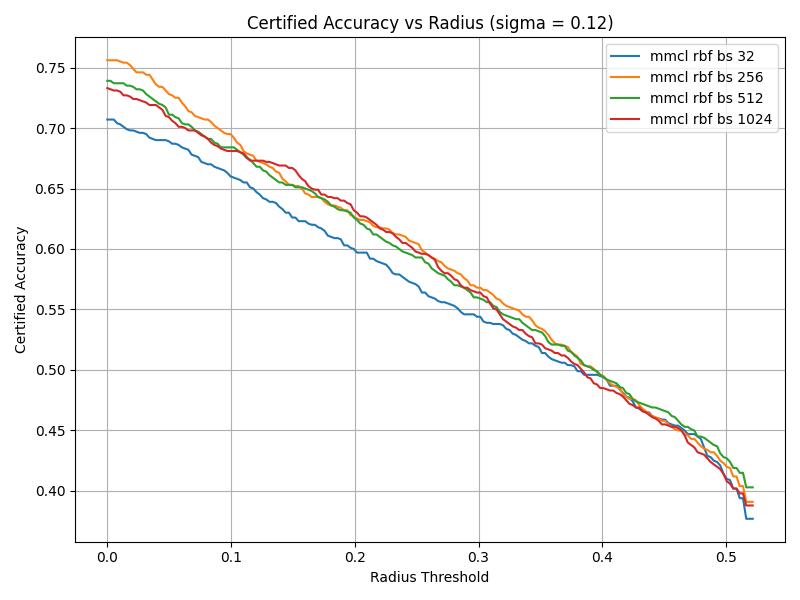
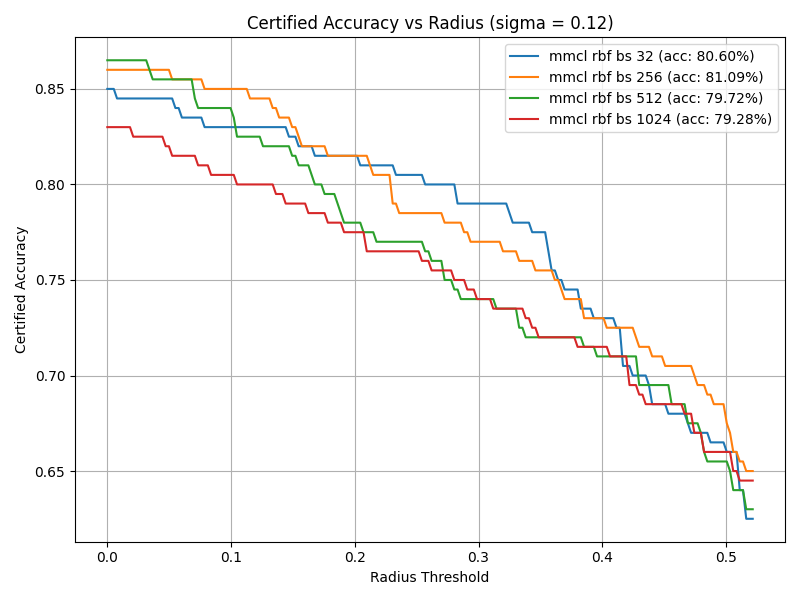
Small updates

diff --git a/randomized_smoothing/compare_randomized_smoothing_supervised.py b/randomized_smoothing/compare_randomized_smoothing_supervised.py
@@ -1,39 +1,31 @@
 import argparse
-import copy
-import gc
 import json
 import os
 import random
-import sys
-import time
 from collections import defaultdict
 
 import matplotlib.pyplot as plt
 import numpy as np
-import pandas as pd
 import torch
 import torch.nn as nn
 import torch.nn.functional as F
+import torchvision
+import torchvision.transforms as transforms
+from torch.utils.data import DataLoader
 from tqdm import tqdm
 
-import rocl.data_loader as data_loader
 from randomized_smoothing.core import Smooth
 
-parser = argparse.ArgumentParser(description="unsupervised binary search")
+parser = argparse.ArgumentParser(description="Randomized Smoothing for Supervised Models")
 parser.add_argument("--batch_size", type=int, default=256, help="batch size")
-parser.add_argument("--train_type", default="contrastive", type=str, help="contrastive/linear eval/test/supervised")
-parser.add_argument("--dataset", default="cifar-10", type=str, help="cifar-10/mnist")
-parser.add_argument("--name", default="", type=str, help="name of run")
 parser.add_argument("--seed", default=1, type=int, help="random seed")
-parser.add_argument("--color_jitter_strength", default=0.5, type=float, help="0.5 for CIFAR, 1.0 for ImageNet")
-parser.add_argument("--picks_per_class", type=int, default=5, help="number of negative items chosen per class")
 parser.add_argument("--N0", type=int, default=100)
 parser.add_argument("--N", type=int, default=1000000, help="number of samples to use")
 parser.add_argument("--alpha", type=float, default=0.001, help="failure probability")
-parser.add_argument("--positives_per_class", type=int, default=5, help="number of negative items chosen per class")
 parser.add_argument("--batch", type=int, default=1000, help="batch size")
-parser.add_argument("--finetune", action="store_true", help="Finetune the model")
 parser.add_argument("--relu_layer", action="store_true", help="Use classifier with additional relu layer")
+parser.add_argument("--num_images", type=int, default=1000, help="number of images to use")
+
 args = parser.parse_args()
 
 # add random seed
@@ -41,7 +33,6 @@ torch.manual_seed(args.seed)
 torch.cuda.manual_seed_all(args.seed)
 random.seed(args.seed)
 np.random.seed(args.seed)
-_, _, _, _, testloader, testdst = data_loader.get_train_val_test_dataset(args=args)
 device = torch.device("cuda" if torch.cuda.is_available() else "cpu")
 
 models = [
@@ -56,8 +47,32 @@ models = [
     {
         "model_ckpt": "models/supervised/supervised_kl_bs_256_lr_0.001.pkl",
         "model": "supervised kl divergence"
+    },
+    {
+        "model_ckpt": "models/supervised/supervised_hinge_bs_256_lr_0.001.pkl",
+        "model": "supervised hinge"
     }
 ]
+transform_test = transforms.Compose([
+    transforms.ToTensor(),
+    transforms.Normalize((0.4914, 0.4822, 0.4465), (0.2023, 0.1994, 0.2010)),
+])
+val_set = torchvision.datasets.CIFAR10(
+    root="./data", train=False, download=True, transform=transform_test
+)
+testloader = DataLoader(
+    torch.utils.data.Subset(val_set, range(5000, 10000)),
+    batch_size=args.batch_size,
+    shuffle=False,
+    num_workers=2
+)
+all_test_images = []
+# randomly sample images from the test set
+for images, labels in testloader:
+    for i in range(images.size(0)):
+        all_test_images.append((images[i], labels[i].item()))
+picks = random.sample(all_test_images, args.num_images)
+
 
 class CombinedModel(nn.Module):
 
@@ -93,52 +108,48 @@ def update_results(
         "rs_label": rs_label
     })
 
+def get_test_set_accuracy(model):
+    total_correct, total_samples = 0, 0
+    for images, targets in testloader:
+        images, targets = images.to(device), targets.to(device)
+        logits = model(images)
+        predictions = torch.argmax(logits, dim=1)
+        correct = (predictions == targets).sum().item()
+        total_correct += correct
+        total_samples += targets.size(0)
+    return total_correct / total_samples
+
+
 for model in models:
-    encoder = torch.load(model["model_ckpt"], map_location=device, weights_only=False)
-    prefix = ""
-    if args.relu_layer:
-        prefix += "relu_"
-    eval_ckpt = f"models/linear_evaluate/{prefix}linear_{model['model_ckpt'].split('/')[-1]}"
-    print(f"Loaded:\nencoder:{model['model_ckpt']}\nclassifier:{eval_ckpt}")
-    classifier = torch.load(eval_ckpt, map_location=device, weights_only=False)
-    model["base_classifier"] = CombinedModel(encoder=encoder, eval_=classifier)
+    model["base_classifier"] = torch.load(model["model_ckpt"], map_location=device, weights_only=False)
+    model["test_accuracy"] = get_test_set_accuracy(model["base_classifier"])
+    print(f"Test accuracy for model {model['model']}: {model['test_accuracy']}")
 
-# creating data
-class_names = testdst.classes
-per_class_sampler = defaultdict(list)
-for idx, sample in enumerate(testdst):
-    image, _, _, label = sample
-    class_name = class_names[label]
-    per_class_sampler[class_name].append((image, label))
-picks = defaultdict(list)
-for class_name, values in per_class_sampler.items():
-    picks[class_name] = random.sample(per_class_sampler[class_name], args.positives_per_class)
-
-# conduct experiments
 results = defaultdict(list)
 sigma_values = [0.12, 0.25, 0.5, 0.67, 1]
 for sigma in sigma_values:
     print(f"Processing sigma: {sigma}")
-    # create verifiers
     for model in models:
         model["verifier"] = Smooth(
             base_classifier=model["base_classifier"],
             num_classes=10,
             sigma=sigma
         )
-    for class_name, values in tqdm(picks.items()):
-        for image, label in tqdm(values):
-            for model in models:
-                image = image.to(device)
-                update_results(
-                    verifier=model["verifier"],
-                    ori_model=model["base_classifier"],
-                    results=results,
-                    model_name=model["model"],
-                    true_label=label,
-                    image=image
-                )
+    for model in models:
+        for image, label in tqdm(picks):
+            image = image.to(device)
+            update_results(
+                verifier=model["verifier"],
+                ori_model=model["base_classifier"],
+                results=results,
+                model_name=model["model"],
+                true_label=label,
+                image=image
+            )
 results = dict(results)
-file_name = "rs_results_cl"
-with open(f"rs_results/{file_name}.json", "w") as f:
-    json.dump(results, f)
+results["models_info"] = [{"model": x["model"], "test_accuracy": x["test_accuracy"]} for x in models]
+output_file_name = "-".join([x["model"].replace(" ", "_") for x in models])
+output_dir = os.path.join("rs_results")
+os.makedirs(output_dir, exist_ok=True)
+with open(os.path.join(output_dir, f"{output_file_name}.json"), "w") as f:
+    json.dump(results, f, indent=4)

diff --git a/plot_from_json/randomized_smoothing_compute_mmcl.py b/plot_from_json/randomized_smoothing_compute_mmcl.py
@@ -8,13 +8,14 @@ import pandas as pd
 from openpyxl import load_workbook
 from openpyxl.styles import Font
 
-file_name = "rs_results_mmcl"
+file_name = "mmcl_rbf_bs_32-mmcl_rbf_bs_256-mmcl_rbf_bs_512-mmcl_rbf_bs_1024"
 with open(f"../rs_results/{file_name}.json", "r") as f:
     data = json.load(f)
 
 sigma_values = [0.25, 0.5, 1]
 certified_radius_choices = [0, 0.5, 1, 1.5, 2, 2.5, 3]
-model_names = list(data.keys())
+models_info = data["models_info"]
+model_names = [x["model"] for x in models_info]
 per_model = defaultdict(list)
 per_sigma_radius = defaultdict(list)
 
@@ -91,13 +92,17 @@ for key, value in per_sigma_radius_updated.items():
     rows.append(row)
 
 def plot_one_per_sigma(data):
+    # Create a mapping from model name to test accuracy
+    model_to_accuracy = {m["model"]: m["test_accuracy"] for m in models_info}
+
     sigma_set = set()
     for model in model_names:
         for rec in data[model]:
             sigma_set.add(rec["sigma"])
     sigma_values = sorted(list(sigma_set))
+
     for sigma in sigma_values:
-        plt.figure(figsize=(8,6))
+        plt.figure(figsize=(8, 6))
         max_threshold = 0
         model_records = {}
         for model in model_names:
@@ -109,6 +114,7 @@ def plot_one_per_sigma(data):
                     max_threshold = max_val
         if max_threshold == 0:
             max_threshold = 3.5
+
         x_vals = np.linspace(0, max_threshold, 200)
         for model in model_names:
             records = model_records[model]
@@ -117,15 +123,21 @@ def plot_one_per_sigma(data):
             for r in x_vals:
                 count = sum(1 for rec in records if rec["radius"] >= r and rec["true_label"] == rec["rs_label"])
                 y_vals.append(count / total if total > 0 else 0)
-            plt.plot(x_vals, y_vals, label=model)
+            # Construct legend label with test accuracy
+            test_acc = model_to_accuracy.get(model, "N/A")
+            label = f"{model} (acc: {100*test_acc:.2f}%)" if isinstance(test_acc, float) else f"{model} (acc: N/A)"
+            plt.plot(x_vals, y_vals, label=label)
+
         plt.xlabel("Radius Threshold")
         plt.ylabel("Certified Accuracy")
         plt.title(f"Certified Accuracy vs Radius (sigma = {sigma})")
         plt.legend()
         plt.grid(True)
+        output_dir = os.path.join("..", "plots", "randomized_smoothing", "mmcl")
+        os.makedirs(output_dir, exist_ok=True)
         output_filename = f"per_sigma_comparison_sigma_{sigma}_mmcl.png"
         plt.tight_layout()
-        plt.savefig(os.path.join("../plots/randomized_smoothing/mmcl", output_filename))
+        plt.savefig(os.path.join(output_dir, output_filename))
         plt.close()
         print(f"Plot saved as: {output_filename}")
 
